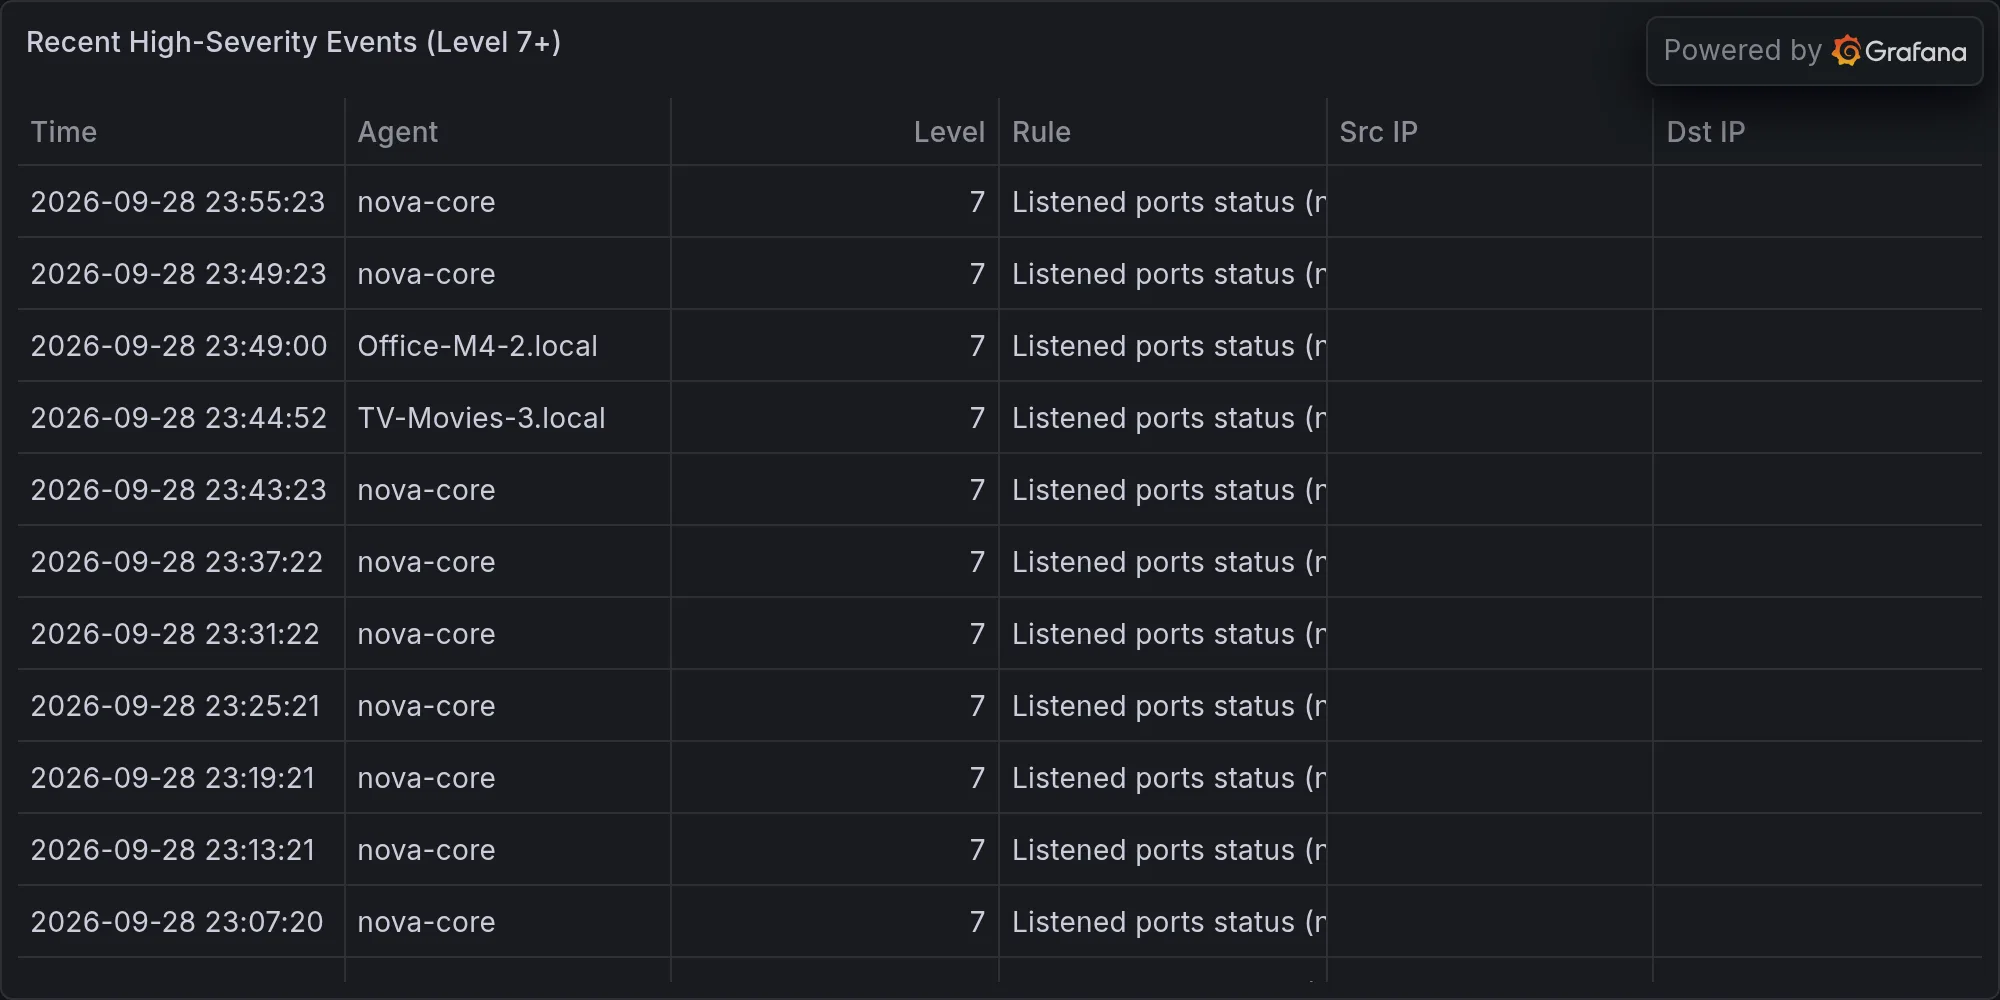
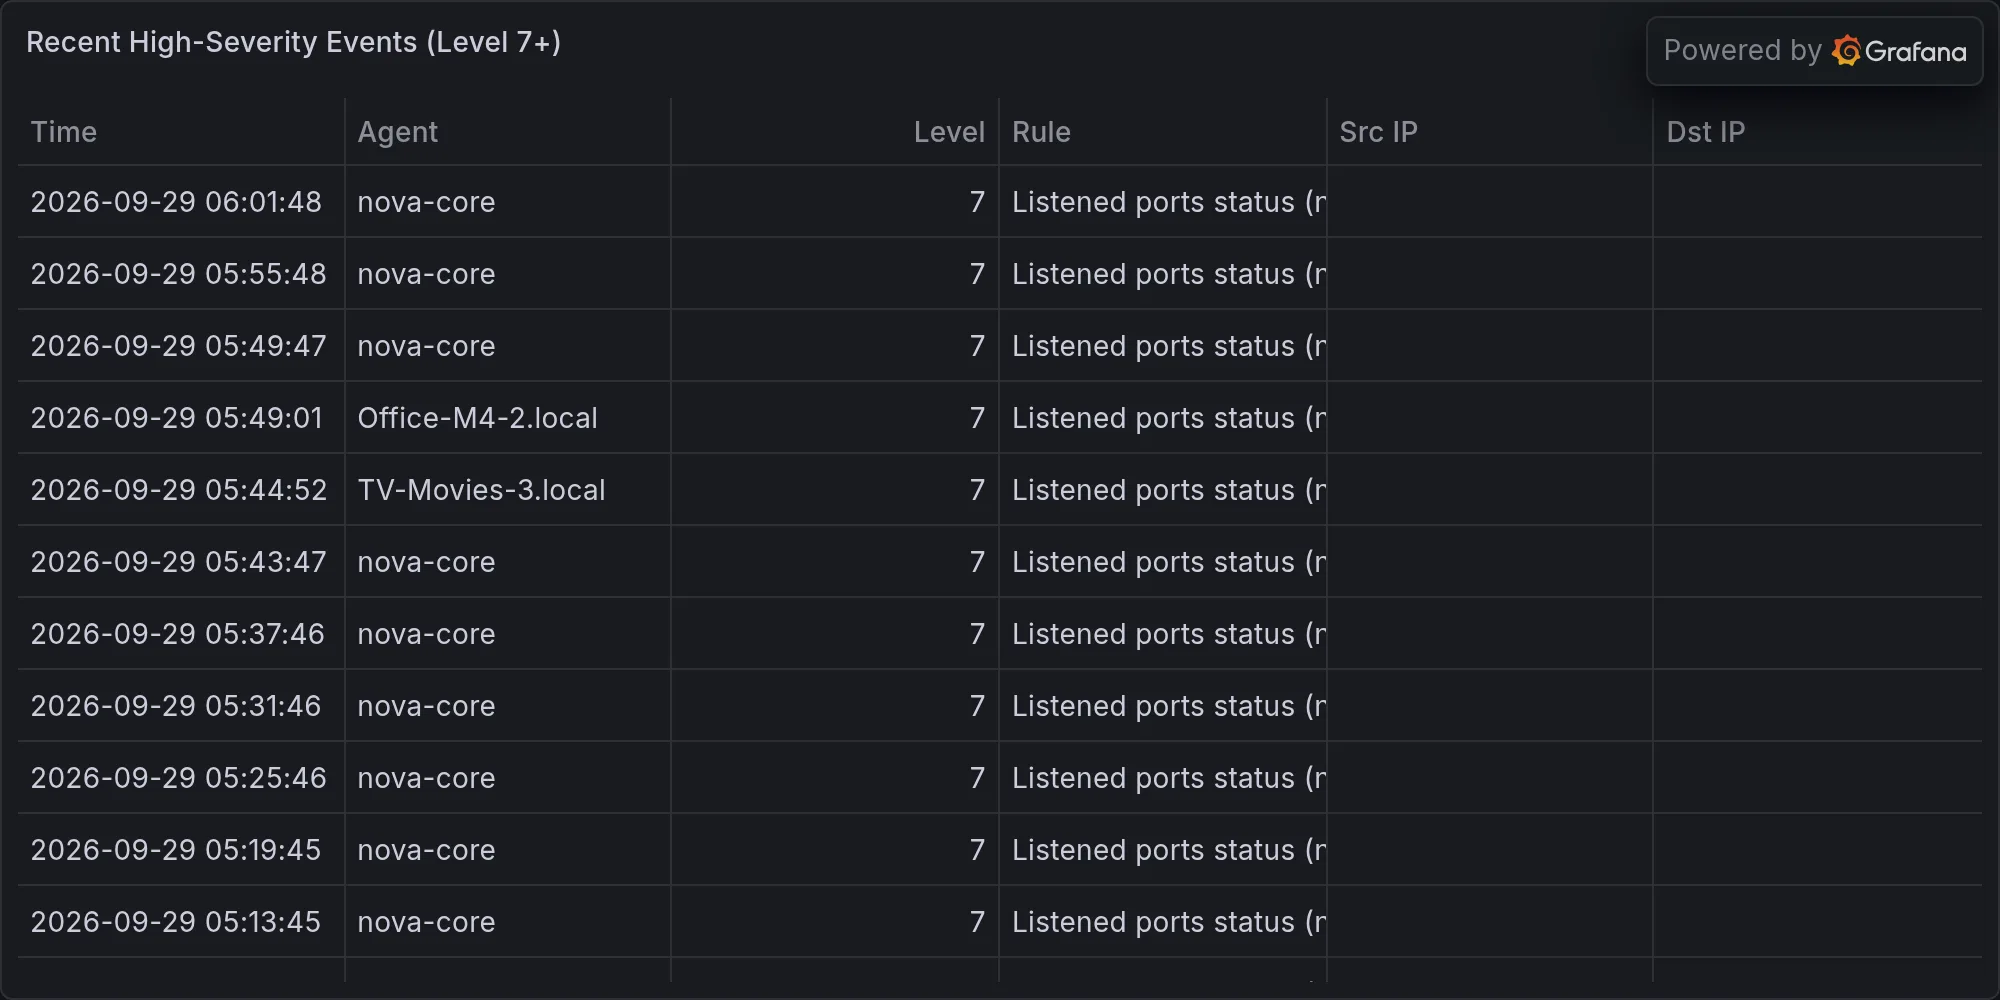
security: 2026-09-29 — **DEVELOPING — Australia's CISC Enforcement Shift

diff --git a/content/operations/2026-09-29-developing-australia-s-cisc-enforcement-shift-under-soci-act.md b/content/operations/2026-09-29-developing-australia-s-cisc-enforcement-shift-under-soci-act.md
@@ -1,0 +1,61 @@
+---
+title: "🛡 **DEVELOPING — Australia's CISC Enforcement Shift Under SOCI Act**"
+date: 2026-09-29T06:03:07-07:00
+draft: false
+categories: ["operations"]
+tags: ["breaking-alert", "industrial-cyber-australia-8217-s-cisc-s", "security"]
+description: "BREAKING: Industrial Cyber: Australia&#8217;s CISC strengthens critical infrastructure compliance under SOCI A"
+cover:
+  image: "/images/operations/2026-09-29-developing-australia-s-cisc-enforcement-shift-under-soci-act.webp"
+  alt: "**DEVELOPING — Australia's CISC Enforcement Shift Under SOCI Act**"
+  relative: false
+---
+
+*Published Tuesday, September 29, 2026 at 06:03 AM PT*
+
+![**DEVELOPING — Australia's CISC Enforcement Shift Under SOCI Act**](/images/operations/2026-09-29-developing-australia-s-cisc-enforcement-shift-under-soci-act.webp)
+
+**BLUF:** Australia's Critical Infrastructure Security Centre is shifting to formal enforcement of critical infrastructure compliance in 2026-27, introducing tiered regulatory measures under the Security of Critical Infrastructure (SOCI) Act. Specific compliance tiers and penalties remain unconfirmed in available sources. CI operators should anticipate stricter oversight and prepare compliance audits now.
+
+---
+
+**DETAILS:**
+
+- CISC is adopting a formal (rather than advisory) enforcement posture beginning in 2026-27
+- Framework includes tiered regulatory measures—specific tier definitions, thresholds, and triggering conditions not yet detailed in available sources
+- Shift represents escalation from current compliance guidance regime
+- Related CISA guidance confirms parallel trends in North America and Australia: emphasis on insider threat programs, third-party risk controls, and least-privilege architectures for critical infrastructure operators
+
+---
+
+**IMPACT:**
+
+**Who:** Operators of critical infrastructure across Australia (assumed: energy, water, transportation, communications, health sectors)
+
+**What:** Formal compliance obligations replacing advisory guidance; graduated enforcement penalties likely under SOCI Act; non-compliance risk increased
+
+**Scope:** **Unconfirmed.** Available sources do not specify which sectors or organization sizes fall under tiered requirements; geographic scope limited to Australia
+
+---
+
+**RECOMMENDED ACTIONS:**
+
+- **Immediate:** Australian CI operators review CISC website and SOCI Act text for enforcement details (full framework not yet publicly available in sources reviewed)
+- **Short-term (30–90 days):** Internal compliance audit against known SOCI requirements; engage legal/policy teams
+- **Monitoring:** Watch CISC announcements in Sept–Dec 2026 for tiered framework publication and implementation timelines
+
+---
+
+**SOURCES:**
+
+- Australia's Critical Infrastructure Security Centre (CISC) — enforcement posture announcement (source document incomplete)
+- Australian Security of Critical Infrastructure Act (SOCI Act)
+- Related: CISA insider threat and third-party ICS risk guidance (contextual only)
+
+**STATUS:** Tiered framework details pending. Alert will update upon official CISC publication.
+
+---
+
+**Recent high-severity events at publish time:**
+
+![Recent high-severity events](/images/operations/2026-09-29-breaking-alert-posture.webp)
